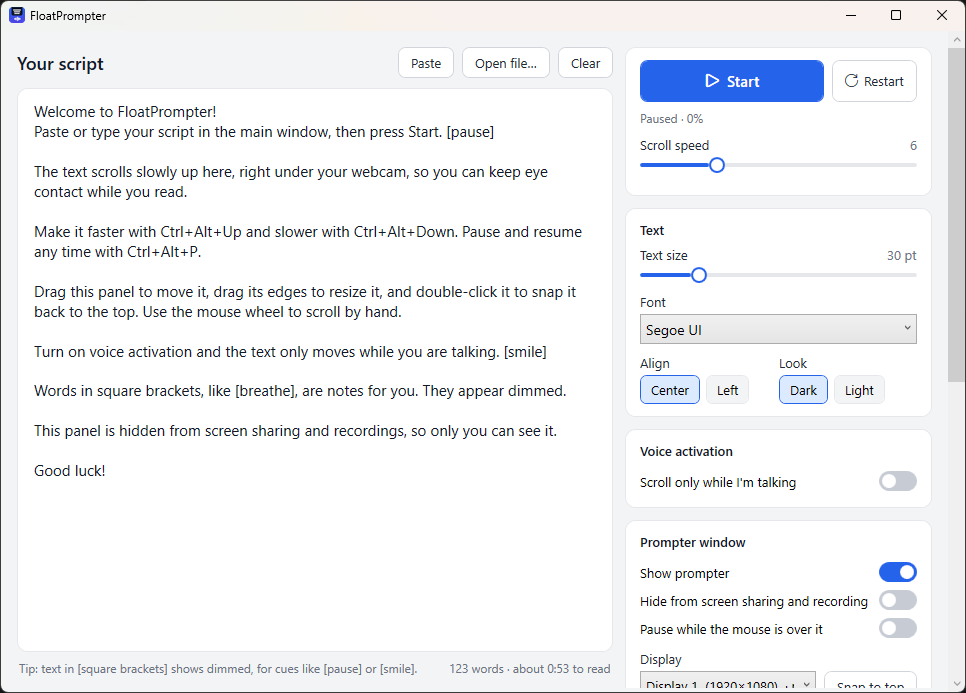
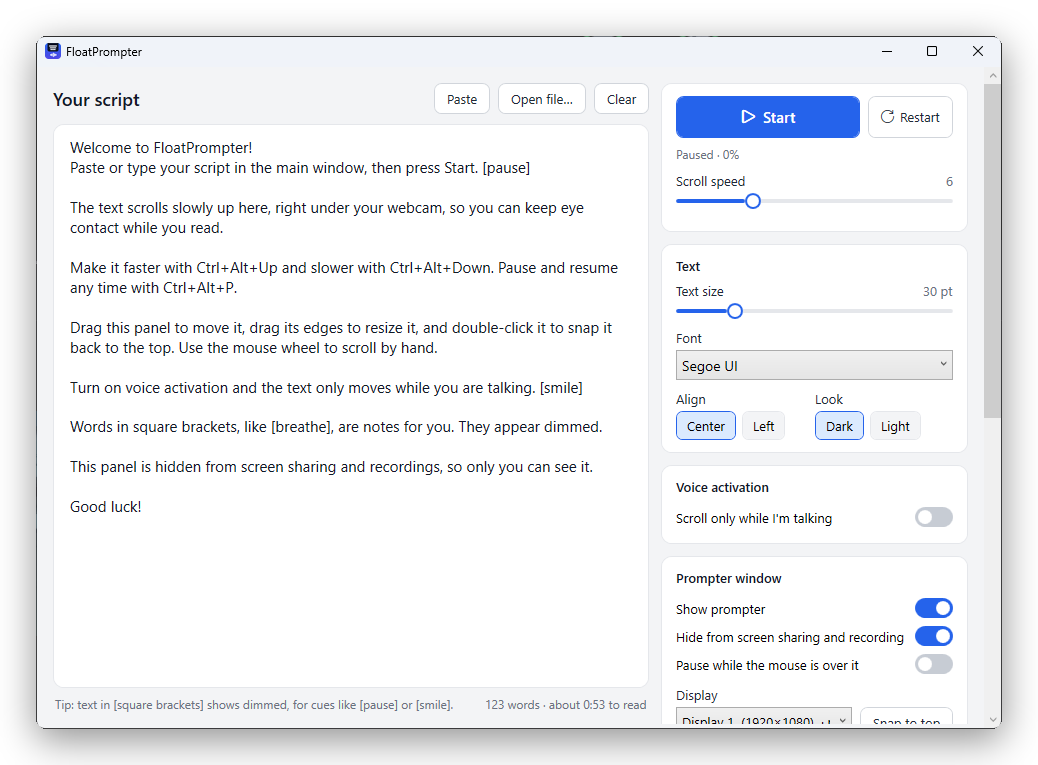
Add demo GIF, social preview, changelog, contributing guide and issue templates

Changed region(s): [[0.0, 0.0, 1.0, 1.0], [0.4037, 0.0606, 0.6211, 0.1515], [0.9006, 0.0, 0.9317, 0.0303]]

diff --git a/README.md b/README.md
@@ -19,7 +19,17 @@ It sits right under your webcam so you keep eye contact while you read, and it's
 ![Downloads](https://img.shields.io/github/downloads/AnassSaleh/FloatPrompter/total?color=blue)
 ![Stars](https://img.shields.io/github/stars/AnassSaleh/FloatPrompter?style=social)
 
-<img src="assets/screenshot-prompter.png" width="640" alt="FloatPrompter prompter panel scrolling a script" />
+<p>
+  <a href="https://github.com/AnassSaleh/FloatPrompter/releases/latest"><b>Download</b></a> ·
+  <a href="#-why-floatprompter">Features</a> ·
+  <a href="#%EF%B8%8F-hotkeys-work-in-any-app">Hotkeys</a> ·
+  <a href="#%EF%B8%8F-build-from-source">Build</a> ·
+  <a href="CONTRIBUTING.md">Contribute</a>
+</p>
+
+<img src="assets/demo.gif" width="900" alt="Demo: the script scrolls in FloatPrompter under the webcam on your screen, while people on the call see nothing" />
+
+<sub>Left: what you see. Right: what everyone on the call sees.</sub>
 
 </div>
 
@@ -28,7 +38,7 @@ It sits right under your webcam so you keep eye contact while you read, and it's
 ## ✨ Why FloatPrompter
 
 - 🎥 **Eye contact on calls.** The panel docks at the top-center of your screen, right under the webcam.
-- 🙈 **Hidden from screen share.** Viewers on Zoom, Teams, Meet, Discord, OBS or a recording never see it. Only you do.
+- 🙈 **Hidden from screen share.** Viewers on Zoom, Teams, Meet, Discord, OBS or a recording never see the prompter or your script window. Only you do.
 - 🎙 **Voice activation.** The script scrolls only while you're talking and waits when you stop.
 - ⌨ **Global hotkeys.** Control speed, pause and position from any app without switching windows.
 - 🪶 **Tiny and portable.** One ~110 KB `.exe`. No installer, no account, no internet, no tracking.
@@ -37,7 +47,9 @@ It sits right under your webcam so you keep eye contact while you read, and it's
 ## 🖼 Screenshots
 
 <div align="center">
-<img src="assets/screenshot-app.png" width="760" alt="FloatPrompter main window with script editor and settings" />
+<img src="assets/screenshot-app.png" width="800" alt="FloatPrompter main window with script editor and settings" />
+
+<sub>The main window: paste your script, set speed, text size, font, look, voice activation and where the prompter sits.</sub>
 </div>
 
 ## 📥 Install
@@ -90,9 +102,15 @@ This uses the C# compiler that ships with Windows, so no SDK is needed. The outp
 
 Tests live in `tests\`: `run-tests.ps1` drives the real app through UI Automation, and `run-voice-test.ps1` checks voice detection.
 
+## 🗺 Changelog
+
+See [CHANGELOG.md](CHANGELOG.md) for what changed in each version.
+
 ## 🤝 Contributing
 
-Issues and pull requests are welcome. If FloatPrompter helps you, a ⭐ helps other people find it.
+Bug reports, ideas and pull requests are welcome. [Open an issue](https://github.com/AnassSaleh/FloatPrompter/issues/new/choose) or read [CONTRIBUTING.md](CONTRIBUTING.md) to get started.
+
+If FloatPrompter helps you, a ⭐ helps other people find it.
 
 ## 📄 License
 

diff --git a/CONTRIBUTING.md b/CONTRIBUTING.md
@@ -1,0 +1,39 @@
+# Contributing to FloatPrompter
+
+Thanks for helping out. Bug reports, ideas and pull requests are all welcome.
+
+## Reporting a bug or asking for a feature
+
+Open an [issue](https://github.com/AnassSaleh/FloatPrompter/issues/new/choose) and pick a template. For bugs, include your Windows version and the steps that cause the problem.
+
+## Building
+
+FloatPrompter builds with the C# compiler that ships with Windows, so you don't need Visual Studio or the .NET SDK:
+
+```powershell
+powershell -ExecutionPolicy Bypass -File build.ps1
+```
+
+The exe lands in `dist\FloatPrompter.exe`.
+
+## Code notes
+
+- The compiler is the .NET Framework 4.x `csc.exe`, which only supports **C# 5**. Don't use string interpolation (`$"..."`), `?.`, `nameof` or expression-bodied members (`=>`).
+- The XAML files in `src\` are embedded as resources and loaded at runtime with `XamlReader`.
+- Keep the app a single dependency-free exe.
+
+## Testing
+
+```powershell
+powershell -ExecutionPolicy Bypass -File tests\run-tests.ps1
+powershell -ExecutionPolicy Bypass -File tests\run-voice-test.ps1
+```
+
+`run-tests.ps1` drives the real app through UI Automation and moves the mouse, so don't touch the PC while it runs (about 5 minutes). Close any running FloatPrompter first.
+
+## Pull requests
+
+1. Fork the repo and create a branch.
+2. Make your change, build, and run the tests.
+3. Add a line under **Unreleased** in `CHANGELOG.md`.
+4. Open a pull request describing what changed and why.

diff --git a/CHANGELOG.md b/CHANGELOG.md
@@ -1,0 +1,23 @@
+# Changelog
+
+All notable changes to FloatPrompter are listed here. The format follows [Keep a Changelog](https://keepachangelog.com/en/1.1.0/), and versions follow [Semantic Versioning](https://semver.org/).
+
+## [Unreleased]
+
+### Added
+- README with demo GIF, screenshots and hotkey reference.
+- MIT license, contributing guide, changelog and issue templates.
+
+## [1.0.0] - 2026-11-14
+
+### Added
+- Floating prompter panel that docks at the top-center of the screen, right under the webcam.
+- Hidden from screen sharing and recordings (Zoom, Teams, Meet, Discord, OBS) on Windows 10 2004 and later.
+- Voice activation: the script scrolls only while you're talking.
+- Global hotkeys for play/pause, speed, jump, restart, show/hide and voice.
+- `[bracketed]` cues shown dimmed.
+- Adjustable speed, text size, font, alignment, dark/light look and multi-monitor placement.
+- Script and settings saved automatically to `%APPDATA%\FloatPrompter`.
+
+[Unreleased]: https://github.com/AnassSaleh/FloatPrompter/compare/v1.0.0...HEAD
+[1.0.0]: https://github.com/AnassSaleh/FloatPrompter/releases/tag/v1.0.0
